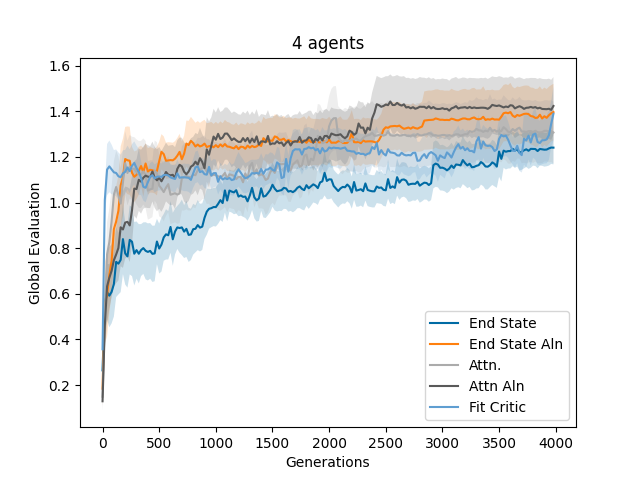
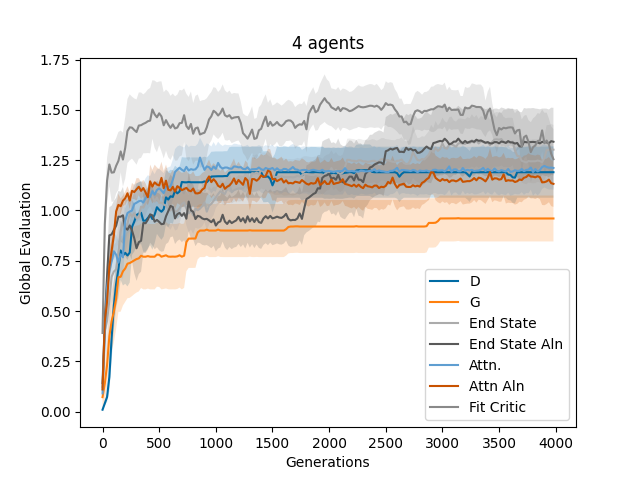
couple 1 experiments

diff --git a/plot1.py b/plot1.py
@@ -7,12 +7,12 @@ plt.style.use('tableau-colorblind10')
 nagents=4
 coupling=2
 window=20
-lbl=["End State","End State Aln","Attn.","Attn Aln","Fit Critic"]
-for exp in range(5):
+lbl=["End State","End State Aln","Attn.","Attn Aln","Fit Critic","D","G"]
+for exp in range(-2,5):
     R=[]
-    for trial in range(12):
+    for trial in range(10):
         fname="-".join([str(s) for s in [nagents,exp,coupling,trial]])+".pkl"
-        with open("saves/"+fname,"rb") as f:
+        with open("saves/v2_"+fname,"rb") as f:
             r,pos=pkl.load(f)
             r=np.array(r)
             r=np.average(r.reshape(-1, window), axis=1)

diff --git a/plot2.py b/plot2.py
@@ -8,7 +8,7 @@ nagents=4
 coupling=2
 window=20
 exp=2
-lbl=["End State","End State Aln","Attn.","Attn Aln","Fit Critic"]
+lbl=["End State","End State Aln","Attn.","Attn Aln","Fit Critic","D","G"]
 
 
 for trial in range(9):
@@ -16,7 +16,7 @@ for trial in range(9):
     plt.subplot(3,3,trial+1)
     
     fname="-".join([str(s) for s in [nagents,exp,coupling,trial]])+".pkl"
-    with open("saves/"+fname,"rb") as f:
+    with open("saves/v2_"+fname,"rb") as f:
         r,pos=pkl.load(f)
     if trial==1:
         plt.title(lbl[exp]+"\n"+str(r[-1]))

diff --git a/experiments.py b/experiments.py
@@ -36,7 +36,7 @@ def experiment(n_agents,reward_type,coupling,trial,device):
 if __name__ == '__main__':
     device = 'cuda' if torch.cuda.is_available() else 'cpu'
     print(device)
-    coupling=2
+    coupling=1
     try:
         mp.set_start_method('spawn')
     except:
